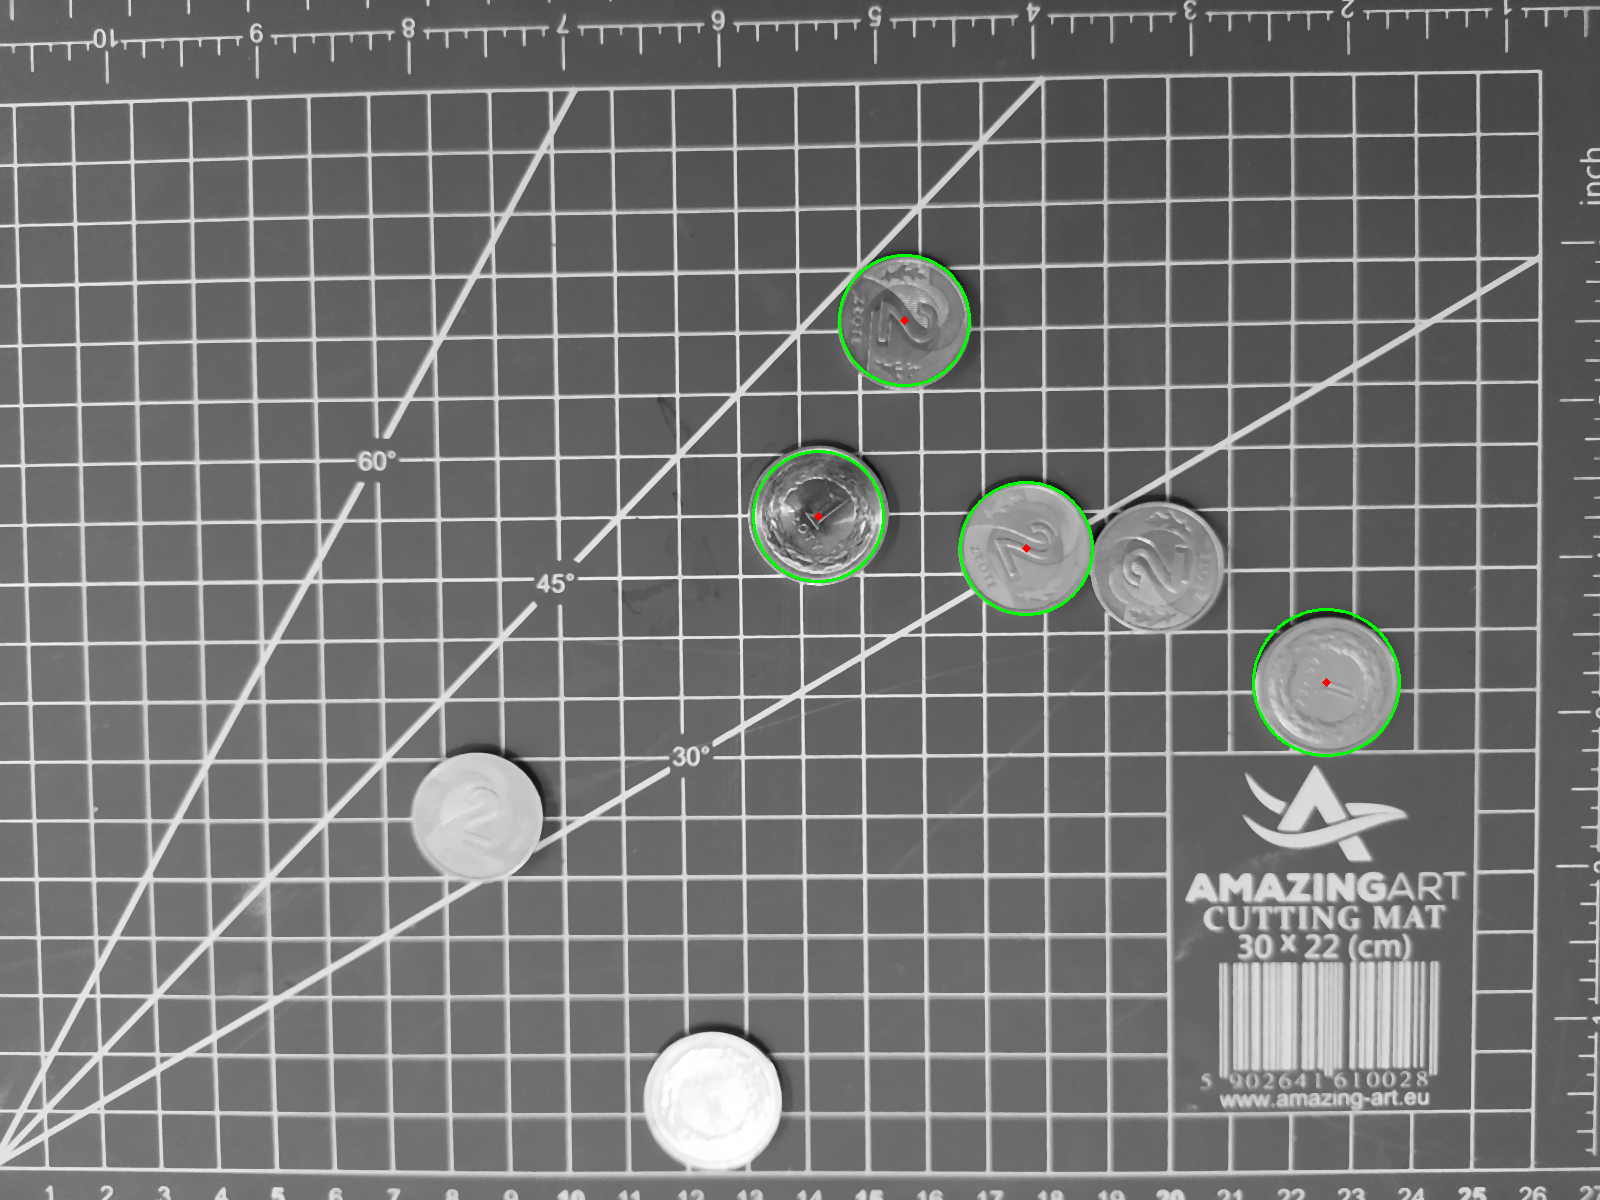
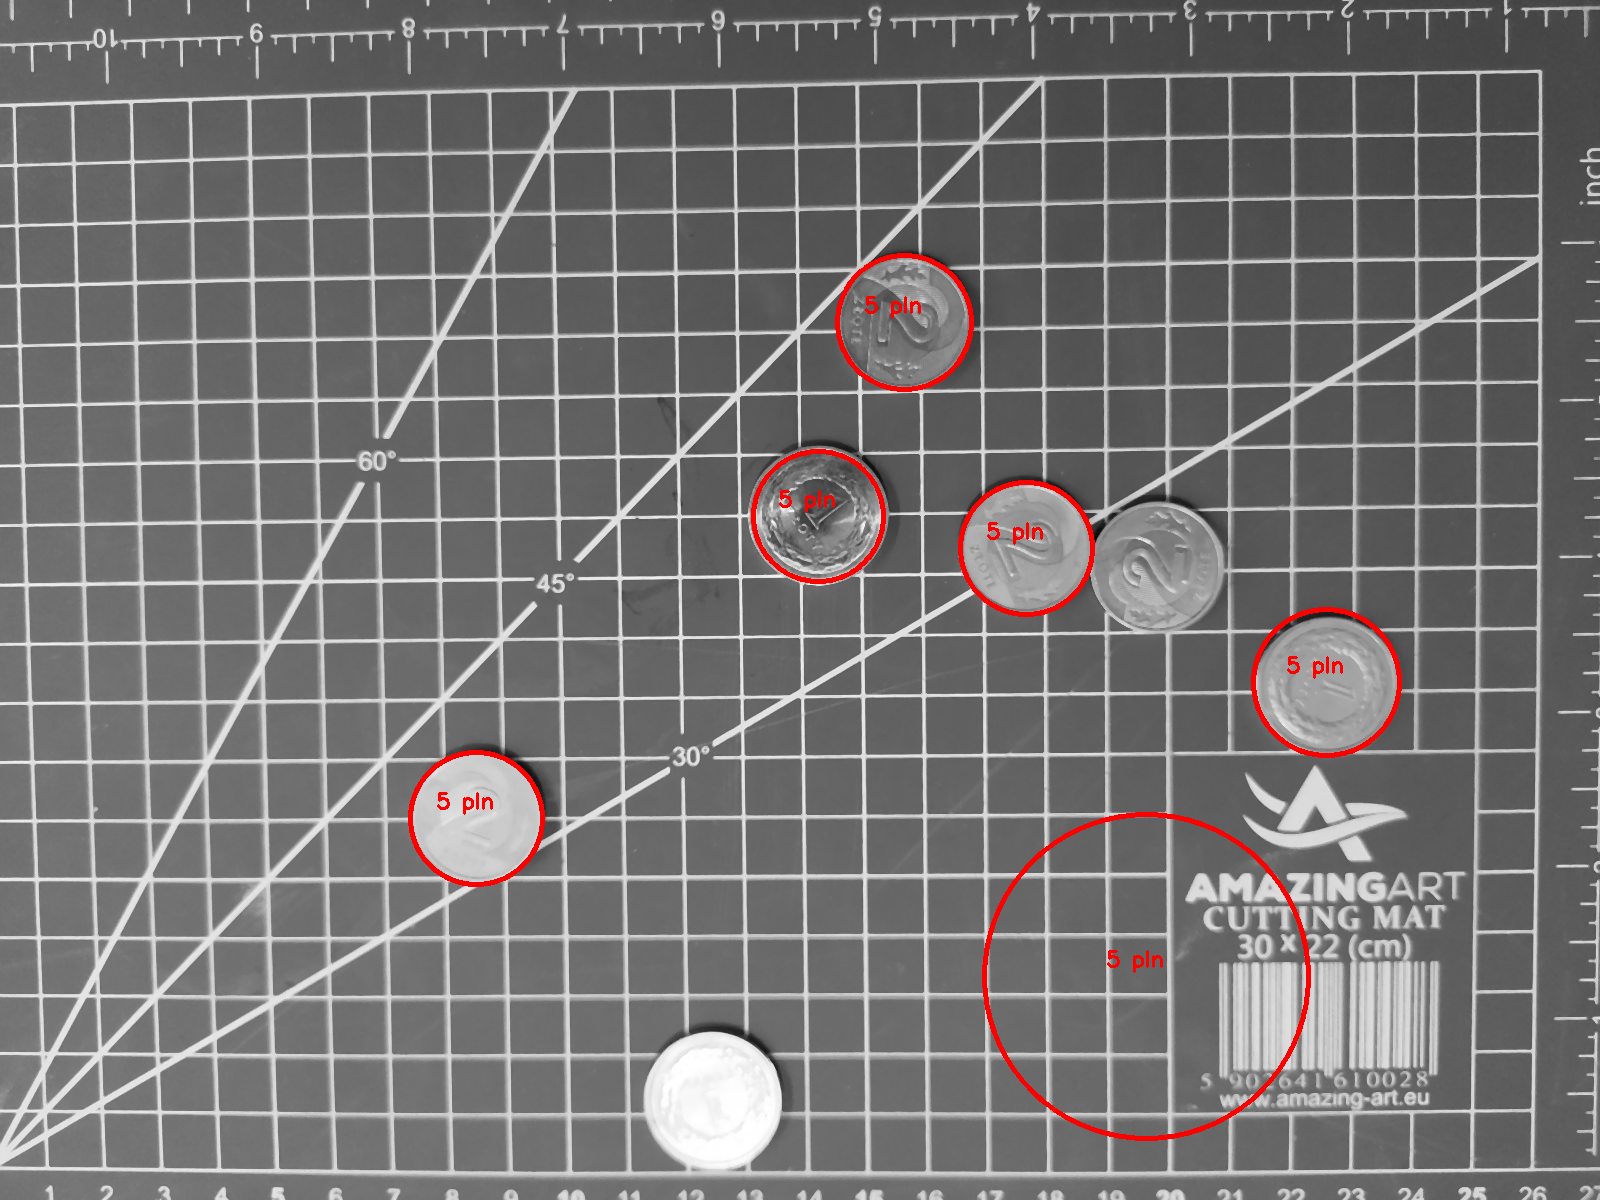
MP

diff --git a/rozpoznawianie.py b/rozpoznawianie.py
@@ -1,166 +1,146 @@
 import cv2 as cv
 import numpy as np
-import os
-import matplotlib.pyplot as plt
-
-scale = 0.4
 
 
-# -----------------------------------------
-# Średnice monet w mm (prawidłowe wartości)
-# -----------------------------------------
-coins = {
-    "1 gr": 15.5,
-    "2 gr": 17.5,
-    "5 gr": 19.5,
-    "10 gr": 16.5,
-    "20 gr": 18.5,
-    "50 gr": 20.5,
-    "1 pln": 23.0,
-    "2 pln": 21.5,
-    "5 pln": 24.0
+scale = 0.5
+img_path = "photos/IMG_20221011_172910.jpg"
+
+
+coins_def = {
+    "1 gr": 15.5, "2 gr": 17.5, "5 gr": 19.5,
+    "10 gr": 16.5, "20 gr": 18.5, "50 gr": 20.5,
+    "1 pln": 23.0, "2 pln": 21.5, "5 pln": 24.0
 }
-
-# wartość nominalna w pln
 values = {
-    "1 gr": 0.01,
-    "2 gr": 0.02,
-    "5 gr": 0.05,
-    "10 gr": 0.10,
-    "20 gr": 0.20,
-    "50 gr": 0.50,
-    "1 pln": 1.00,
-    "2 pln": 2.00,
-    "5 pln": 5.00
-}
-
-# kolory (BGR)
-colors = {
-    "1 gr":  (0, 255, 255),
-    "2 gr":  (0, 165, 255),
-    "5 gr":  (0, 140, 255),
-    "10 gr": (0, 255, 0),
-    "20 gr": (255, 255, 0),
-    "50 gr": (255, 0, 0),
-    "1 pln":  (255, 0, 255),
-    "2 pln":  (0, 100, 255),
-    "5 pln":  (0, 0, 255)
+    "1 gr": 0.01, "2 gr": 0.02, "5 gr": 0.05, "10 gr": 0.10, "20 gr": 0.20,
+    "50 gr": 0.50, "1 pln": 1.00, "2 pln": 2.00, "5 pln": 5.00
 }
 
 
-# -----------------------------------------
-# Callback myszy
-# -----------------------------------------
-
-def mouse_callback(event, x, y, flags, param):
-    if event == cv.EVENT_LBUTTONDOWN:
-        param["lista"].append((x, y))
-        param["points"] += 1
-        cv.circle(param["img"], (x, y), 5, (0, 0, 255), -1)
-
-
-# -----------------------------------------
-# Wczytywanie zdjęcia
-# -----------------------------------------
-
-img_path = ".//photos/IMG_20221011_172837.jpg"
-print(img_path)
-
-img = cv.imread(img_path, 0)
-img = cv.resize(img, None, fx=scale, fy=scale)
-img = cv.rotate(img, cv.ROTATE_90_CLOCKWISE)
-img = cv.medianBlur(img, 3)
-cimg = cv.cvtColor(img, cv.COLOR_GRAY2BGR)
-param = {"points": 0, "lista": [], "img": img}
-
+img = cv.imread(img_path)
 if img is None:
-    print("Nie udało się wczytać obrazu!")
+    print(f"Błąd: Nie można otworzyć pliku {img_path}")
     exit()
 
 
-# -----------------------------------------
-# Zaznaczenie odcinka 5 cm
-# -----------------------------------------
+img = cv.resize(img, None, fx=scale, fy=scale)
+gray = cv.cvtColor(img, cv.COLOR_BGR2GRAY)
+gray_blur = cv.medianBlur(gray, 5)
+
+
+param = {"points": 0, "lista": [], "img": img.copy()}
+
+def mouse_callback(event, x, y, flags, p):
+    if event == cv.EVENT_LBUTTONDOWN:
+        p["lista"].append((x, y))
+        p["points"] += 1
+        cv.circle(p["img"], (x, y), 5, (0, 0, 255), -1)
+        cv.imshow("Kalibracja Skali", p["img"])
+
+
+window_calib = "Kalibracja Skali"
+cv.namedWindow(window_calib, cv.WINDOW_NORMAL)
+cv.resizeWindow(window_calib, 800, 600)
+
+cv.imshow(window_calib, param["img"])
+cv.setMouseCallback(window_calib, mouse_callback, param)
+
+print(">>> Zaznacz odcinek 5 cm na obrazku i naciśnij SPACJĘ <<<")
+cv.waitKey(0)
+cv.destroyWindow(window_calib)
+
+if len(param["lista"]) < 2:
+    print("Brak punktów! Używam skali domyślnej.")
+    px_per_mm = 8.0 
+else:
+    p1, p2 = np.array(param["lista"][0]), np.array(param["lista"][1])
+    px_dist = np.linalg.norm(p1 - p2)
+    px_per_mm = (px_dist / 5.0) / 10.0
+    print(f"Skala: {px_per_mm:.2f} px/mm")
+
+
+def nothing(x):
+    pass
+
+window_name = "Dostrajanie Detekcji"
+cv.namedWindow(window_name, cv.WINDOW_NORMAL)
+cv.resizeWindow(window_name, 1000, 700)
+
+cv.createTrackbar("Czułość (Param1)", window_name, 100, 300, nothing)
+cv.createTrackbar("Rygor (Param2)", window_name, 30, 100, nothing)
+cv.createTrackbar("Min Dystans", window_name, 40, 150, nothing)
+
+print(">>> Ustaw suwaki. Naciśnij 'q' aby zakończyć <<<")
+
+final_circles = None
 
 while True:
-    cv.imshow("Zaznacz odcinek 5cm na obrazku", img)
-    if param["points"] == 2:
-        cv.destroyAllWindows()
+    p1_val = cv.getTrackbarPos("Czułość (Param1)", window_name)
+    p2_val = cv.getTrackbarPos("Rygor (Param2)", window_name)
+    min_dist = cv.getTrackbarPos("Min Dystans", window_name)
+
+    p1_val = max(p1_val, 1)      
+    p2_val = max(p2_val, 1)
+    min_dist = max(min_dist, 10)
+
+    preview = img.copy()
+
+    try:
+        circles = cv.HoughCircles(
+            gray_blur, cv.HOUGH_GRADIENT, 1, 
+            minDist=min_dist,
+            param1=p1_val, 
+            param2=p2_val,
+            minRadius=15, maxRadius=100
+        )
+    except cv.error:
+        circles = None
+
+    if circles is not None:
+        final_circles = circles
+        circles_uint = np.uint16(np.around(circles))
+        for i in circles_uint[0, :]:
+            cv.circle(preview, (i[0], i[1]), i[2], (0, 255, 0), 2)
+            cv.circle(preview, (i[0], i[1]), 2, (0, 0, 255), 3)
+
+    cv.imshow(window_name, preview)
+
+    if cv.waitKey(1) & 0xFF == ord('q'):
         break
 
-    cv.setMouseCallback("Zaznacz odcinek 5cm na obrazku", mouse_callback, param)
+cv.destroyAllWindows()
 
-    key = cv.waitKey(1) & 0xFF
-    if key == ord('q'):
-        cv.destroyAllWindows()
-        break
-
-print("Wybrane punkty:", param["lista"])
-
-# przeliczenie pikseli na cm
-p1 = np.array(param["lista"][0])
-p2 = np.array(param["lista"][1])
-
-px_distance = np.linalg.norm(p1 - p2)
-real_length_cm = 5.0
-px_per_cm = px_distance / real_length_cm
-
-print(f"Odległość w pikselach: {px_distance:.2f}")
-print(f"Skala: {px_per_cm:.2f} px / cm")
-
-
-# -----------------------------------------
-# Detekcja monet (HoughCircles)
-# -----------------------------------------
-
-circles = cv.HoughCircles(
-    img, cv.HOUGH_GRADIENT, 1, 200,
-    param1=100, param2=130,
-    minRadius=20, maxRadius=500
-)
-
-circles = np.uint16(np.around(circles))
-print(f"Wykryte koła: {circles}\n")
-
+print("\n--- WYNIK ---")
 total_value = 0.0
+result_img = img.copy()
 
-print("---- ROZPOZNANE MONETY ----")
+if final_circles is not None:
+    final_circles = np.uint16(np.around(final_circles))
+    for i in final_circles[0, :]:
+        cx, cy, r_px = i
+        diameter_mm = (r_px * 2) / px_per_mm
+        
+        best_coin = min(coins_def.keys(), key=lambda c: abs(coins_def[c] - diameter_mm))
+        diff = abs(coins_def[best_coin] - diameter_mm)
+        
+        if diff < 2.0:
+            total_value += values[best_coin]
+            color = (0, 255, 0)
+            label = best_coin
+        else:
+            color = (0, 0, 255)
+            label = "?"
 
+        cv.circle(result_img, (cx, cy), r_px, color, 2)
+        cv.putText(result_img, f"{label}", (cx - 20, cy), cv.FONT_HERSHEY_SIMPLEX, 0.6, (255, 0, 255), 2)
+        print(f"Moneta: {label: <6} | Zmierzono: {diameter_mm:.1f}mm")
 
-# -----------------------------------------
-# Klasyfikacja monet + kolorowanie
-# -----------------------------------------
+print(f"\nŁĄCZNIE: {total_value:.2f} PLN")
 
-for i in circles[0, :]:
-    cx, cy, radius_px = i
+window_result = "Final"
+cv.namedWindow(window_result, cv.WINDOW_NORMAL)
+cv.resizeWindow(window_result, 1000, 700)
 
-    diameter_px = radius_px * 2
-    diameter_cm = diameter_px / px_per_cm
-    diameter_mm = diameter_cm * 10.0
-
-    # Wybór najbliższego nominału (minimalna różnica)
-    best_coin = min(coins.keys(), key=lambda c: abs(coins[c] - diameter_mm))
-    color = colors[best_coin]
-
-    # dodawanie wartości
-    total_value += values[best_coin]
-
-    print(f"{best_coin}: zmierzone {diameter_mm:.1f} mm")
-
-    # rysowanie okręgu i podpisu
-    cv.circle(cimg, (cx, cy), radius_px, color, 3)
-    cv.putText(cimg, best_coin, (cx - 40, cy - 10),
-               cv.FONT_HERSHEY_SIMPLEX, 0.7, color, 2)
-
-
-print(f"\nSUMA MONET: {total_value:.2f} pln\n")
-
-
-# -----------------------------------------
-# Wyświetlenie i zapis wyniku
-# -----------------------------------------
-
-cv.imshow('detected circles', cimg)
+cv.imshow(window_result, result_img)
 cv.waitKey(0)
 cv.destroyAllWindows()
-cv.imwrite('wynik_detekcji.png', cimg)
